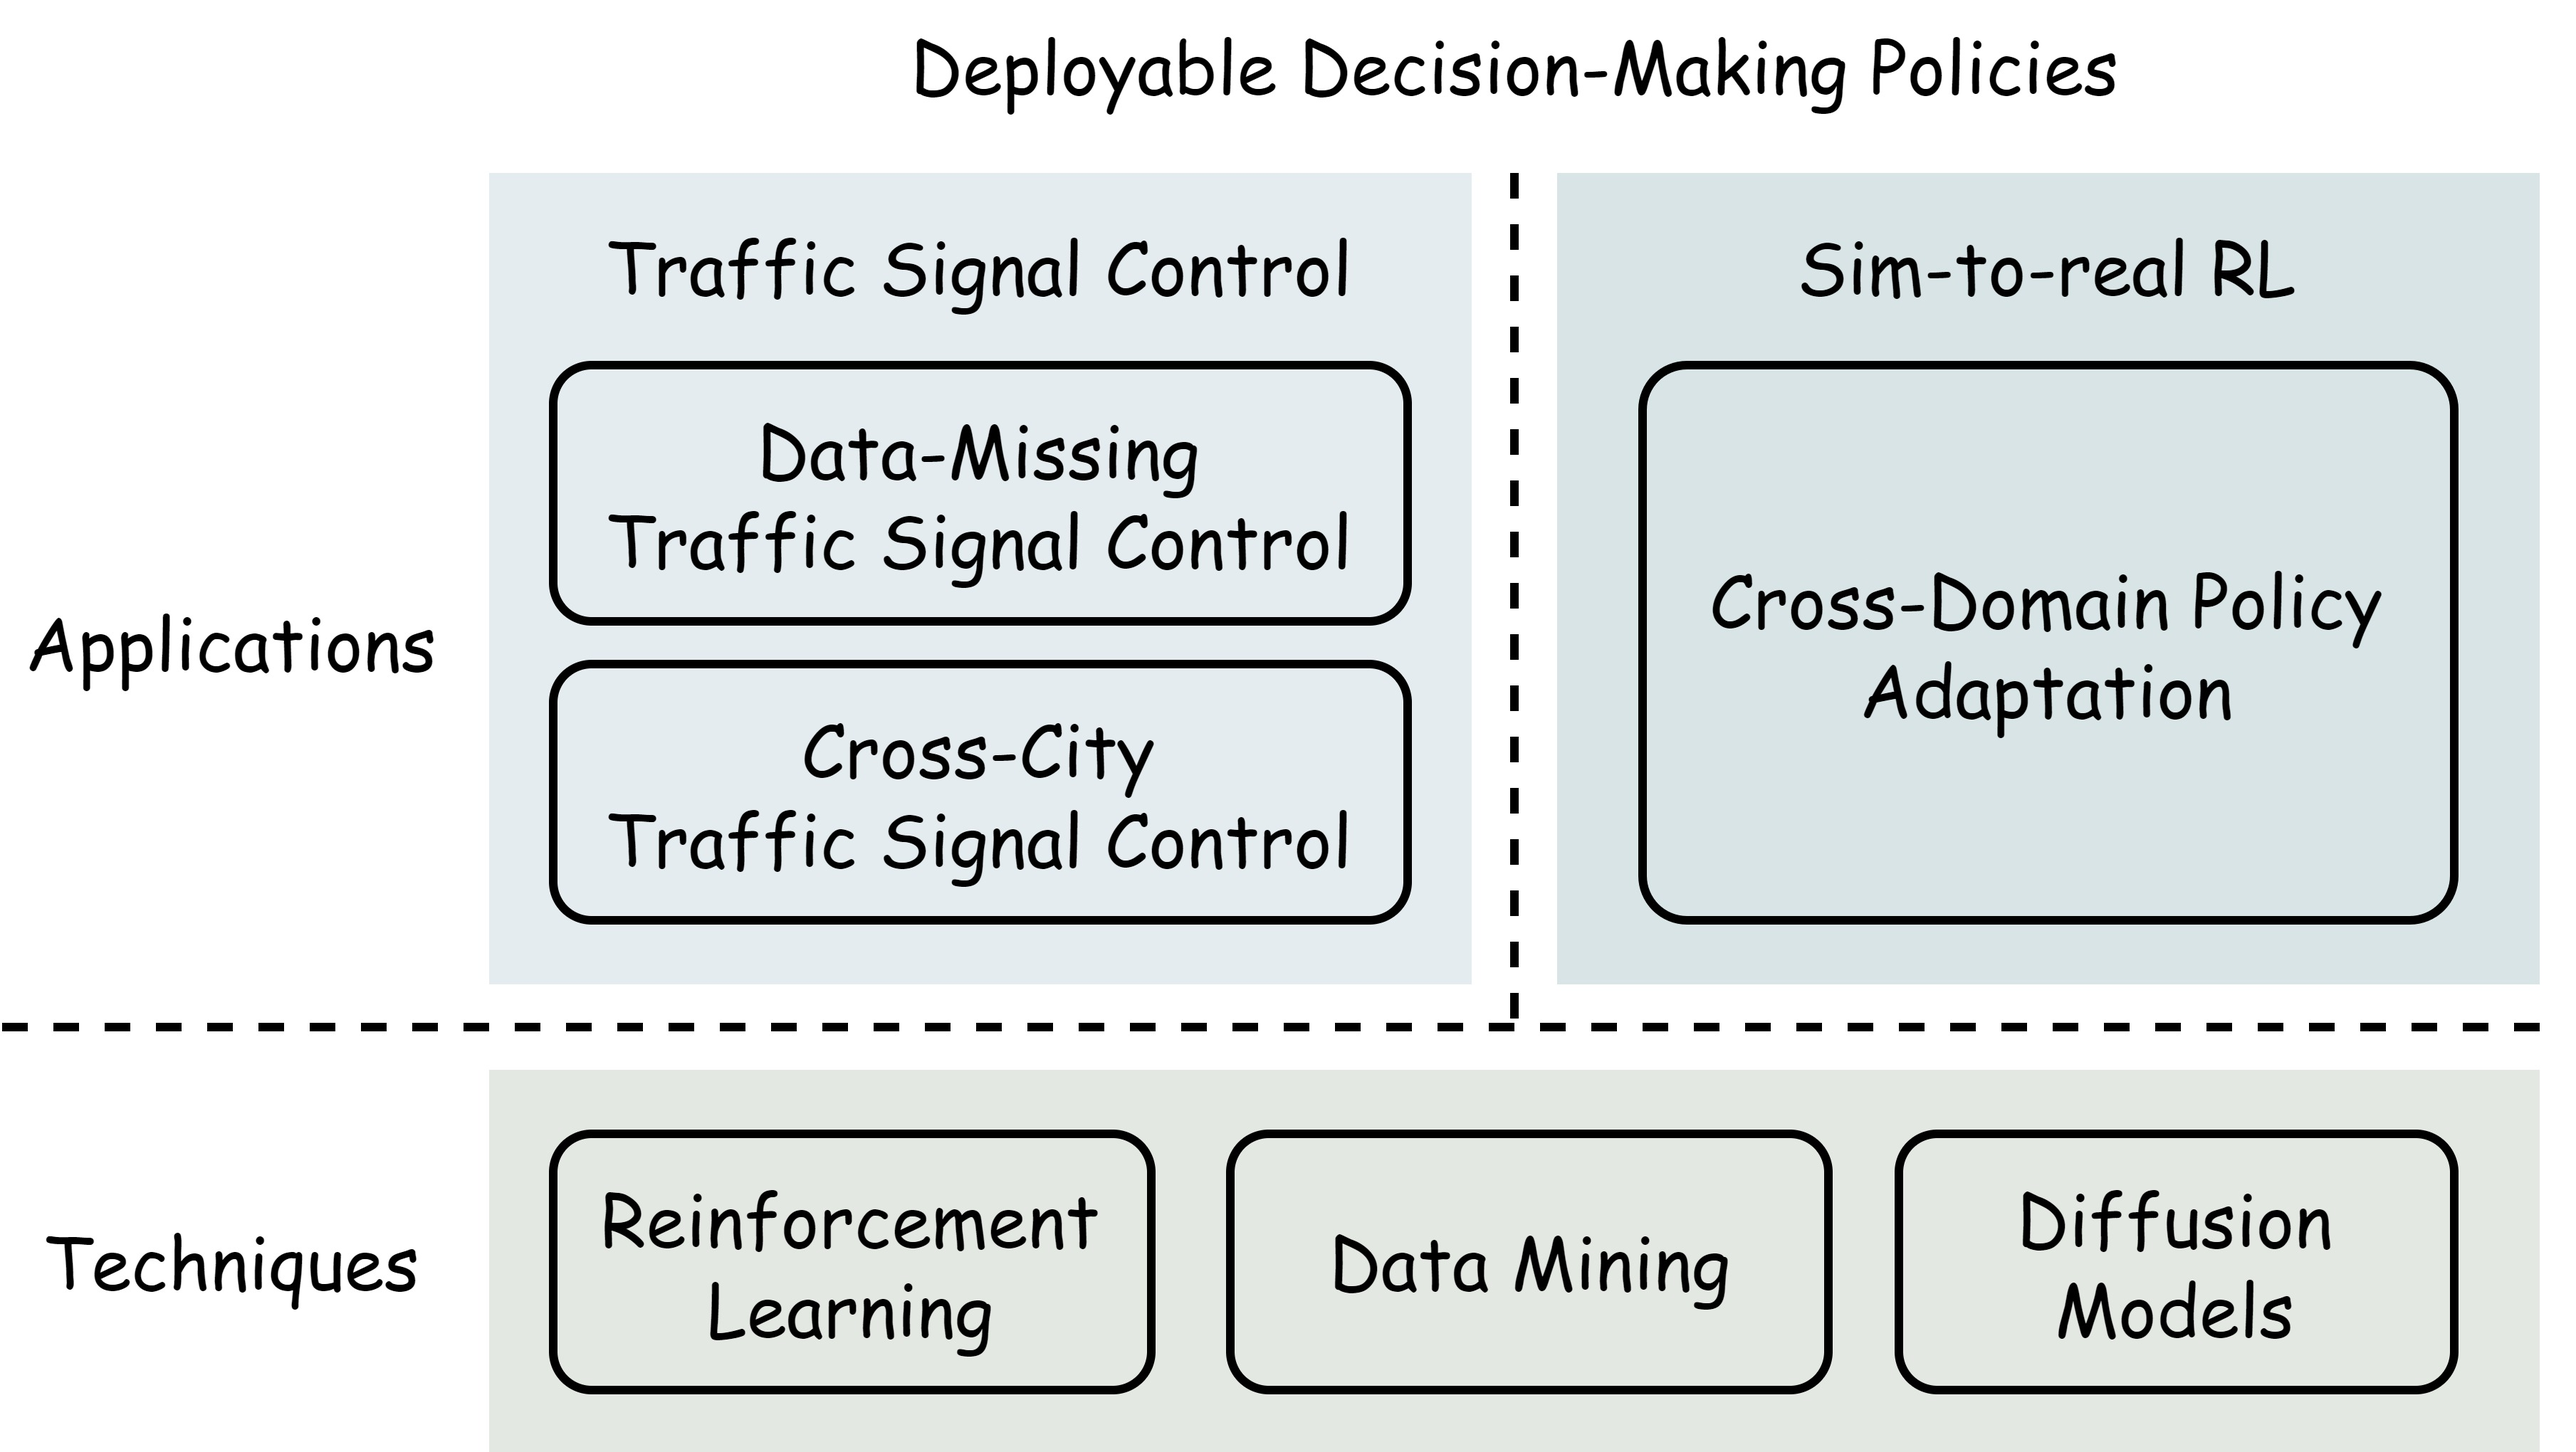
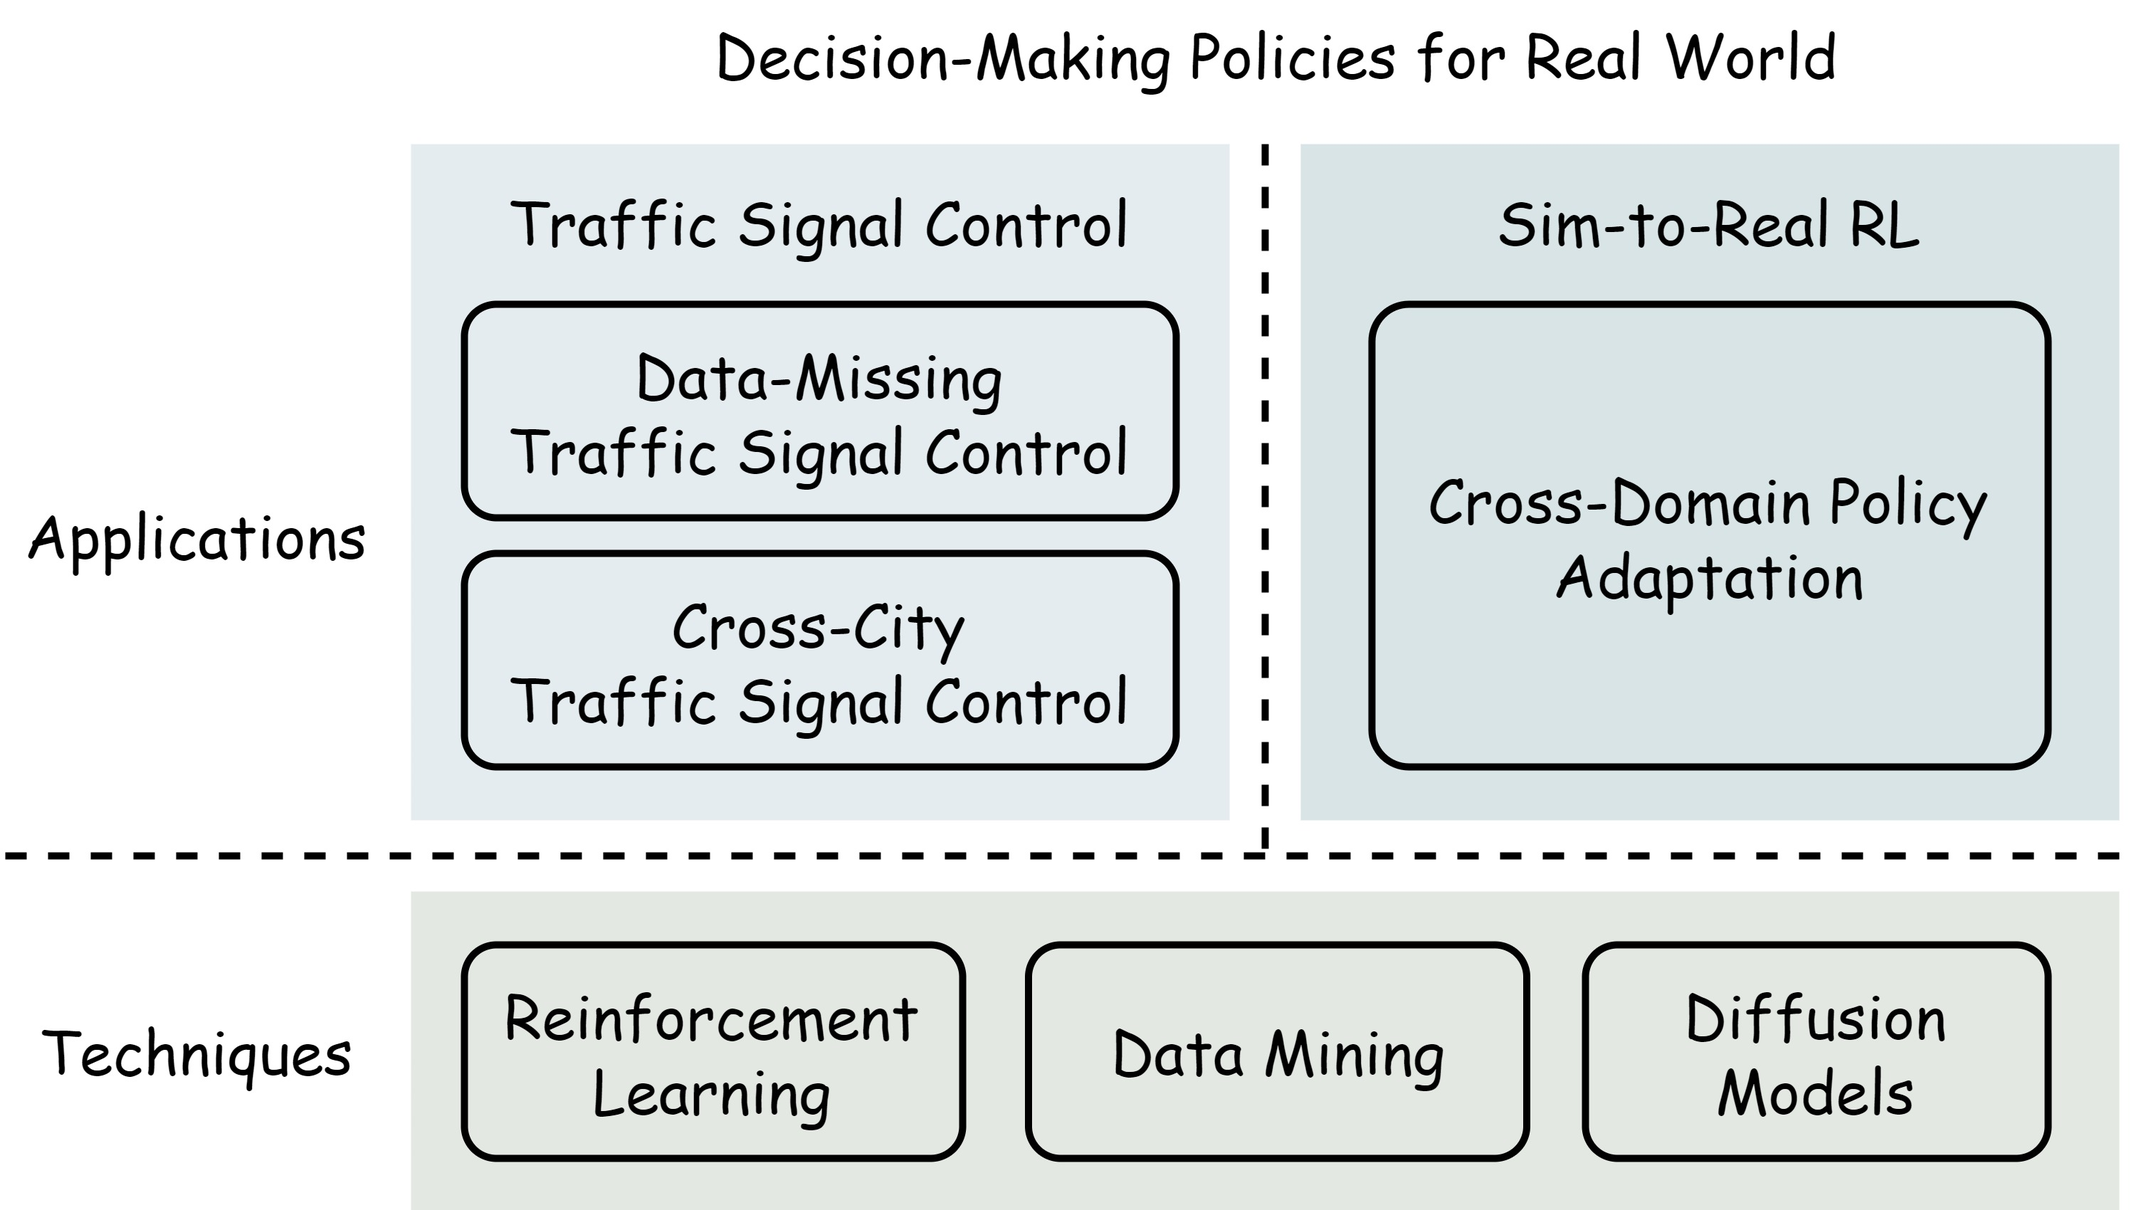
update.

diff --git a/index.md b/index.md
@@ -14,7 +14,7 @@ I am a final-year Master's student at the School of Computer Science and Technol
     <img src="assets/img/roadmap.jpg" alt="Research Roadmap" style="width: 75%; max-width: 1024px;">
 </p>
 
-I have been working on deployable decision-making policies in two areas: traffic signal control (TSC) and sim-to-real reinforcement learning (RL). My research roadmap is shown above.
+I have been working on decision-making policies for real world in two areas: traffic signal control (TSC) and sim-to-real reinforcement learning (RL). My research roadmap is shown above.
 
 - **Data-missing traffic signal control with diffusion models (TSC)**
 - **Cross-city traffic signal control by Shapley value enhanced multi-task RL (TSC)**
